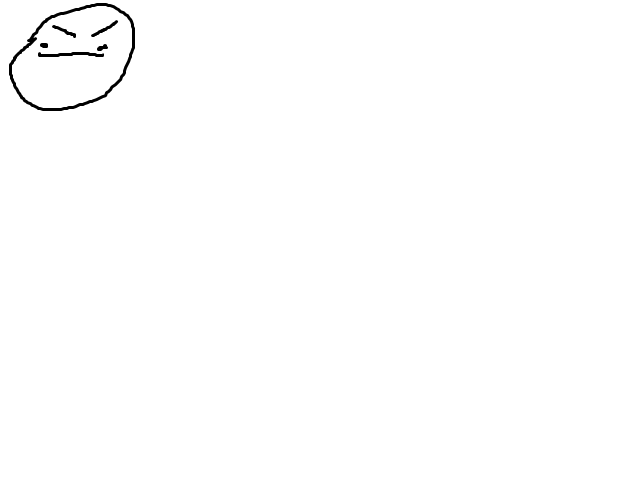
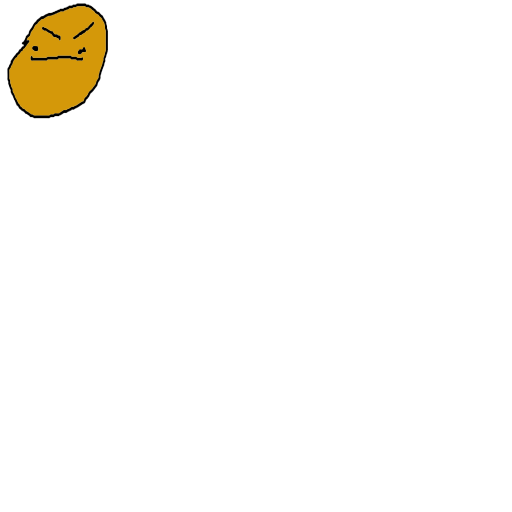
change the player image

Changed region(s): [[0.0, 0.0, 0.2188, 0.25]]

diff --git a/lib/game/entities/player.js b/lib/game/entities/player.js
@@ -77,7 +77,7 @@ ig.module(
 			this.addAnim( 'downAttack', 1, [5] );
 			//this.addAnim( 'run', 0.7, [0,1,2,3,4,5] );
 			for(var n = 0;n < this.inventory_max; n++){
-				this.inventory[n] = NULL;
+				this.inventory[n] = null;
 			}
 		},
 
@@ -87,6 +87,10 @@ ig.module(
 			if(this.inventory_held < 0) this.inventory_held = 0;
 			this.parent();			
 		},
+
+        draw: function() {
+           // glDraw(this.size.x, this.size.y, 300, 300, null, this.anims.upIdle);
+        },
 
 		//Functions for events at beginning and end of this player's turn 
 		onTurnStart : function() {

diff --git a/lib/game/rooms/room.js b/lib/game/rooms/room.js
@@ -320,7 +320,7 @@ ig.module(
             this.initiateTiles(this.roomX, this.roomY, this.tileGridWidth, this.tileGridHeight, this.tileHeightOffset);
             //set tiles here
             //example: this.setTile(97, 'lib/game/media/door.png');
-            this.setTile(45, 'lib/game/media/door.png');
+            this.setTile(40, 'lib/game/media/playerTemp.png');
 
             //create the possible room doors tiles (currently positions set according to grid of 10x10)
             this.doors = [];
